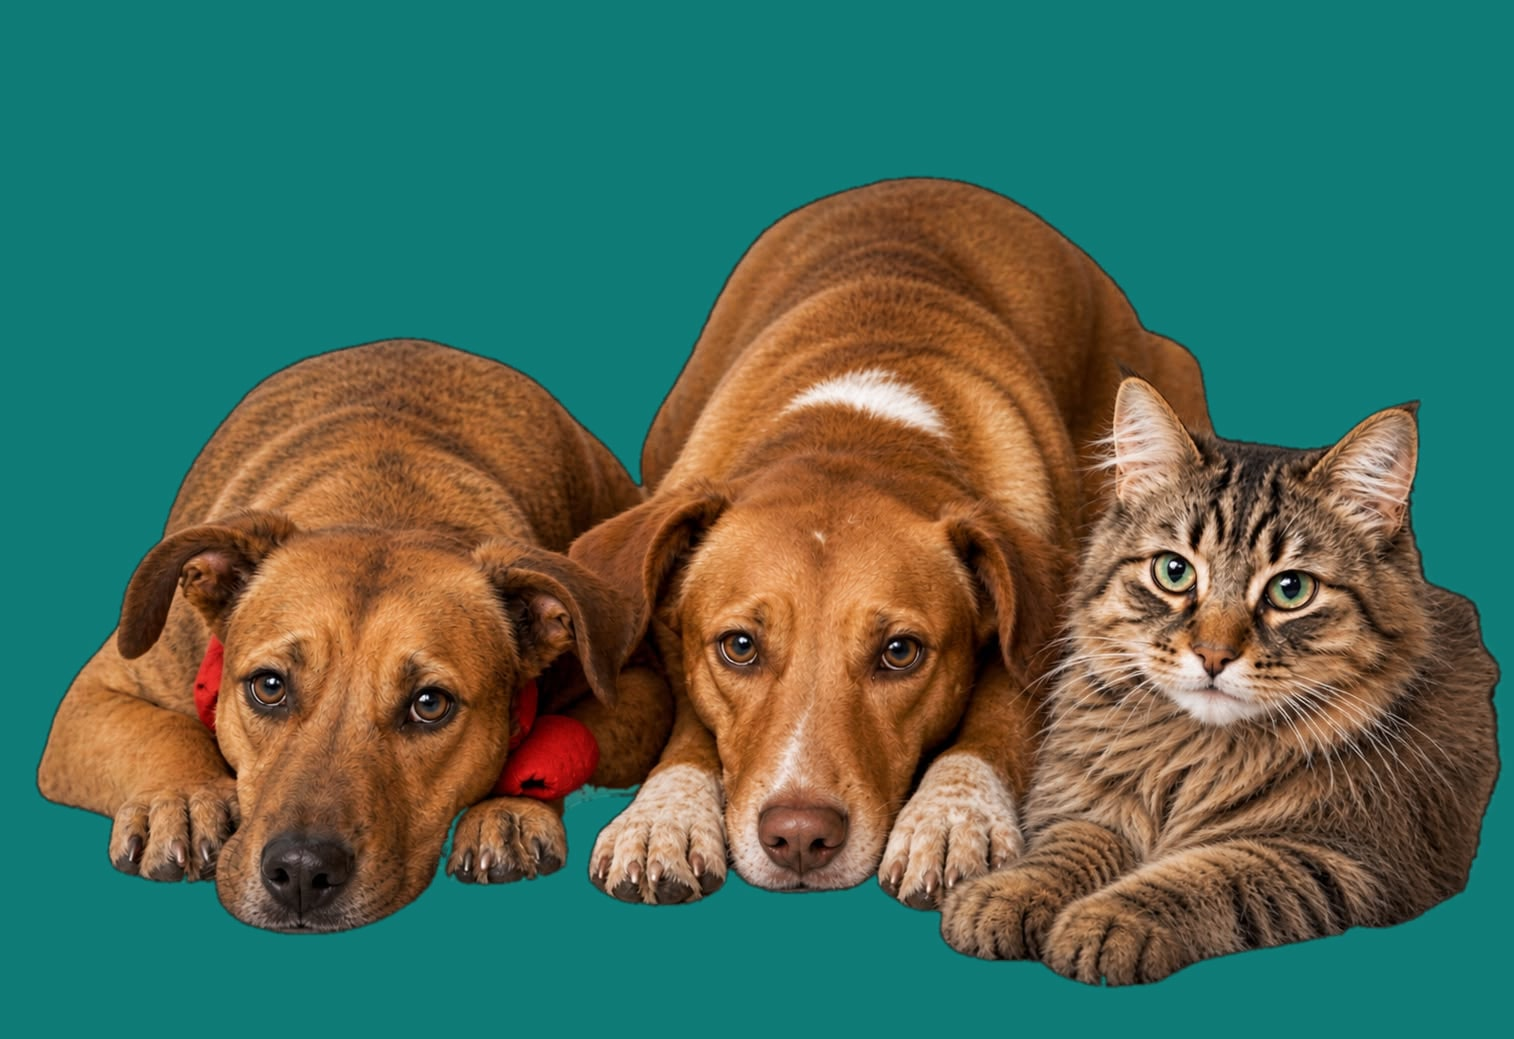
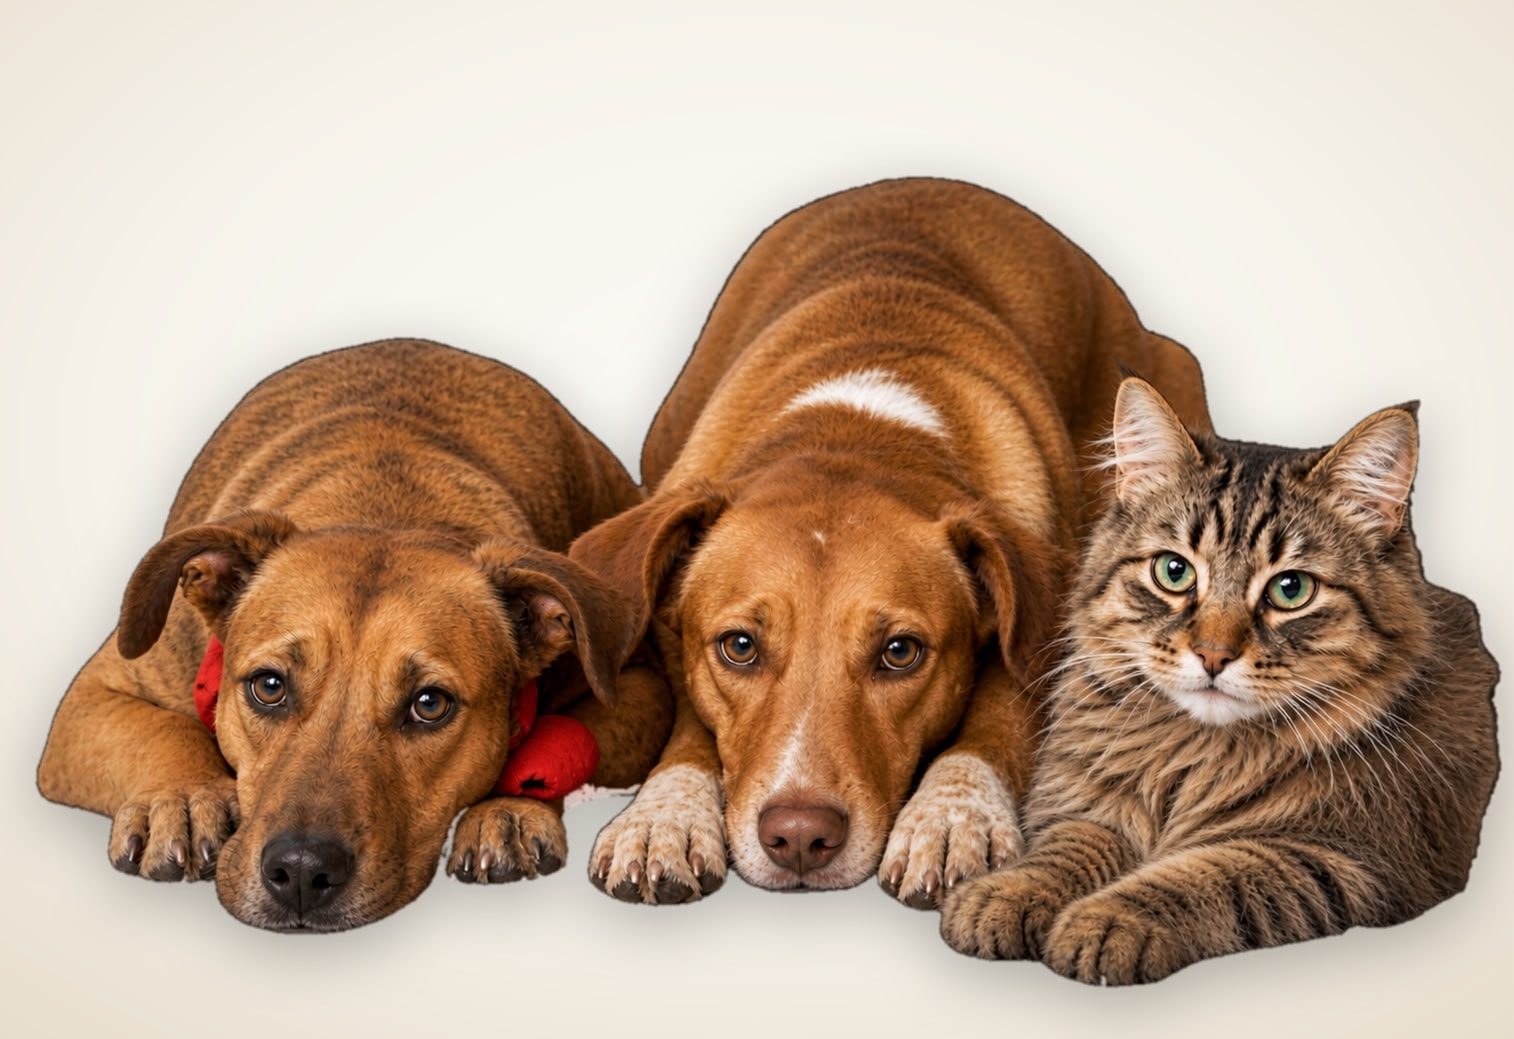
Cambiar el fondo plano de la portada por uno de estudio
El verde liso quedaba como un cartón recortado. Se sustituye por un
fondo de estudio: degradado radial cálido en los cremas de la marca
(#FDFBF7 al centro, #F6F2EA, #E6DCCC en los bordes), que es la misma
familia que el fondo de la sección.

Se añade además una sombra de apoyo: la silueta de los animales,
bajada 16px, muy difuminada y al 30%. Sin ella parecían pegados
encima, flotando.

Antes probé con la manta de mascotas-vetmove.jpg desenfocada, que es
la misma toma. No sirve: la franja que queda libre de animales arrastra
trozos de cuerpo, y al desenfocarla dejaba manchas marrones sueltas.

diff --git a/originales/recorte-de-fondo.js b/originales/recorte-de-fondo.js
@@ -1,75 +1,86 @@
 const sharp = require('C:/Users/dukes/AppData/Roaming/npm/node_modules/netlify-cli/node_modules/sharp');
+const fs = require('fs');
 
-const ORIGEN = 'C:/Users/dukes/Desktop/CLINICA VETERINARIA ISERN/vetmove.7.jpeg';
-const DESTINO = 'C:/Users/dukes/Desktop/CLINICA VETERINARIA ISERN/img/mascotas-fundadora.jpg';
+const BASE = 'C:/Users/dukes/Desktop/CLINICA VETERINARIA ISERN/';
+const ORIGEN = BASE + 'originales/mascotas-fundadora-fondo-negro.jpeg';
+const DESTINO = BASE + 'img/mascotas-fundadora.jpg';
 
-// Verde de marca: --teal #0E7B76
-const VERDE = [0x0E, 0x7B, 0x76];
-const UMBRAL = 18;   // luminancia por debajo de la cual se considera fondo
-const SUAVE = 1.2;   // desenfoque del borde, en píxeles
+const UMBRAL = 18;
+const SUAVE = 1.2;
+
+// Sombra de apoyo
+const SOMBRA_DESPL = 16;    // cuánto baja respecto al animal
+const SOMBRA_DIFUM = 34;    // difuminado
+const SOMBRA_FUERZA = 0.30; // 0 = nada, 1 = negro
 
 (async () => {
   const { data, info } = await sharp(ORIGEN).removeAlpha().raw().toBuffer({ resolveWithObject: true });
   const W = info.width, H = info.height, C = info.channels;
-
   const lum = i => 0.299 * data[i * C] + 0.587 * data[i * C + 1] + 0.114 * data[i * C + 2];
 
-  // --- Relleno por inundación desde los bordes ---
-  // Solo se marca como fondo el negro conectado con el exterior, así que
-  // los negros interiores (hocicos, pupilas, sombras del pelo) se conservan.
+  // ---------- 1. Máscara del fondo por inundación ----------
   const fondo = new Uint8Array(W * H);
   const cola = new Int32Array(W * H);
   let ini = 0, fin = 0;
-
   const empujar = i => { if (!fondo[i] && lum(i) < UMBRAL) { fondo[i] = 1; cola[fin++] = i; } };
-
   for (let x = 0; x < W; x++) { empujar(x); empujar((H - 1) * W + x); }
   for (let y = 0; y < H; y++) { empujar(y * W); empujar(y * W + W - 1); }
-
   while (ini < fin) {
-    const i = cola[ini++];
-    const x = i % W, y = (i / W) | 0;
+    const i = cola[ini++], x = i % W, y = (i / W) | 0;
     if (x > 0) empujar(i - 1);
     if (x < W - 1) empujar(i + 1);
     if (y > 0) empujar(i - W);
     if (y < H - 1) empujar(i + W);
   }
 
-  let nFondo = 0;
-  for (let i = 0; i < W * H; i++) if (fondo[i]) nFondo++;
-  console.log(`Fondo detectado: ${(100 * nFondo / (W * H)).toFixed(1)}% de la imagen`);
-
-  // --- Suavizar el borde de la máscara ---
   const mascara = Buffer.alloc(W * H);
   for (let i = 0; i < W * H; i++) mascara[i] = fondo[i] ? 255 : 0;
-
-  // Ojo: al desenfocar, sharp devuelve la máscara en 3 canales aunque
-  // entre con 1. Hay que leerla con su paso real, no de byte en byte.
-  const desenf = await sharp(mascara, { raw: { width: W, height: H, channels: 1 } })
+  const des = await sharp(mascara, { raw: { width: W, height: H, channels: 1 } })
     .blur(SUAVE).raw().toBuffer({ resolveWithObject: true });
-  const paso = desenf.info.channels;
-  const suave = desenf.data;
-  console.log(`Máscara desenfocada: ${desenf.info.width}x${desenf.info.height}, ${paso} canal(es)`);
+  const paso = des.info.channels, suave = des.data;
 
-  // --- Recomposición ---
-  // La foto está sobre negro puro, así que equivale a color premultiplicado:
-  //   pixel = sujeto * cobertura
-  // Por tanto basta sumar el verde por la parte no cubierta. Así no queda
-  // el halo oscuro típico de recortar sobre fondo negro.
+  // ---------- 2. Fondo de estudio: degradado cálido de la marca ----------
+  const svg = `<svg xmlns="http://www.w3.org/2000/svg" width="${W}" height="${H}">
+    <defs>
+      <radialGradient id="g" cx="50%" cy="42%" r="78%">
+        <stop offset="0%"   stop-color="#FDFBF7"/>
+        <stop offset="55%"  stop-color="#F6F2EA"/>
+        <stop offset="100%" stop-color="#E6DCCC"/>
+      </radialGradient>
+    </defs>
+    <rect width="${W}" height="${H}" fill="url(#g)"/>
+  </svg>`;
+  const grad = await sharp(Buffer.from(svg)).removeAlpha().raw().toBuffer();
+
+  // ---------- 3. Sombra de apoyo ----------
+  // Se parte de la silueta, se baja y se difumina mucho.
+  const silueta = Buffer.alloc(W * H);
+  for (let i = 0; i < W * H; i++) silueta[i] = fondo[i] ? 0 : 255;
+
+  const desplazada = Buffer.alloc(W * H);
+  for (let y = 0; y < H; y++) {
+    const orig = y - SOMBRA_DESPL;
+    if (orig < 0) continue;
+    silueta.copy(desplazada, y * W, orig * W, orig * W + W);
+  }
+  const sb = await sharp(desplazada, { raw: { width: W, height: H, channels: 1 } })
+    .blur(SOMBRA_DIFUM).raw().toBuffer({ resolveWithObject: true });
+  const pasoS = sb.info.channels, sombra = sb.data;
+
+  // ---------- 4. Composición ----------
   const salida = Buffer.alloc(W * H * 3);
   for (let i = 0; i < W * H; i++) {
-    const f = suave[i * paso] / 255;
+    const cobertura = 1 - suave[i * paso] / 255;      // 1 = animal
+    const s = (sombra[i * pasoS] / 255) * SOMBRA_FUERZA * (1 - cobertura);
     for (let c = 0; c < 3; c++) {
-      const v = data[i * C + c] + VERDE[c] * f;
+      const bg = grad[i * 3 + c] * (1 - s);           // fondo oscurecido por la sombra
+      const v = data[i * C + c] + bg * (1 - cobertura);
       salida[i * 3 + c] = v > 255 ? 255 : v;
     }
   }
 
   await sharp(salida, { raw: { width: W, height: H, channels: 3 } })
-    .jpeg({ quality: 88, mozjpeg: true })
-    .toFile(DESTINO);
+    .jpeg({ quality: 90, mozjpeg: true }).toFile(DESTINO);
 
-  const m = await sharp(DESTINO).metadata();
-  const fs = require('fs');
-  console.log(`Guardada: ${m.width} x ${m.height}, ${Math.round(fs.statSync(DESTINO).size / 1024)} KB`);
+  console.log(`Guardada: ${W}x${H}, ${Math.round(fs.statSync(DESTINO).size / 1024)} KB`);
 })();

diff --git a/index.html b/index.html
@@ -28,7 +28,7 @@
 
     <link rel="preconnect" href="https://fonts.googleapis.com">
     <link rel="preconnect" href="https://fonts.gstatic.com" crossorigin>
-    <link rel="stylesheet" href="css/style.css?v=26">
+    <link rel="stylesheet" href="css/style.css?v=27">
 </head>
 
 <body>
